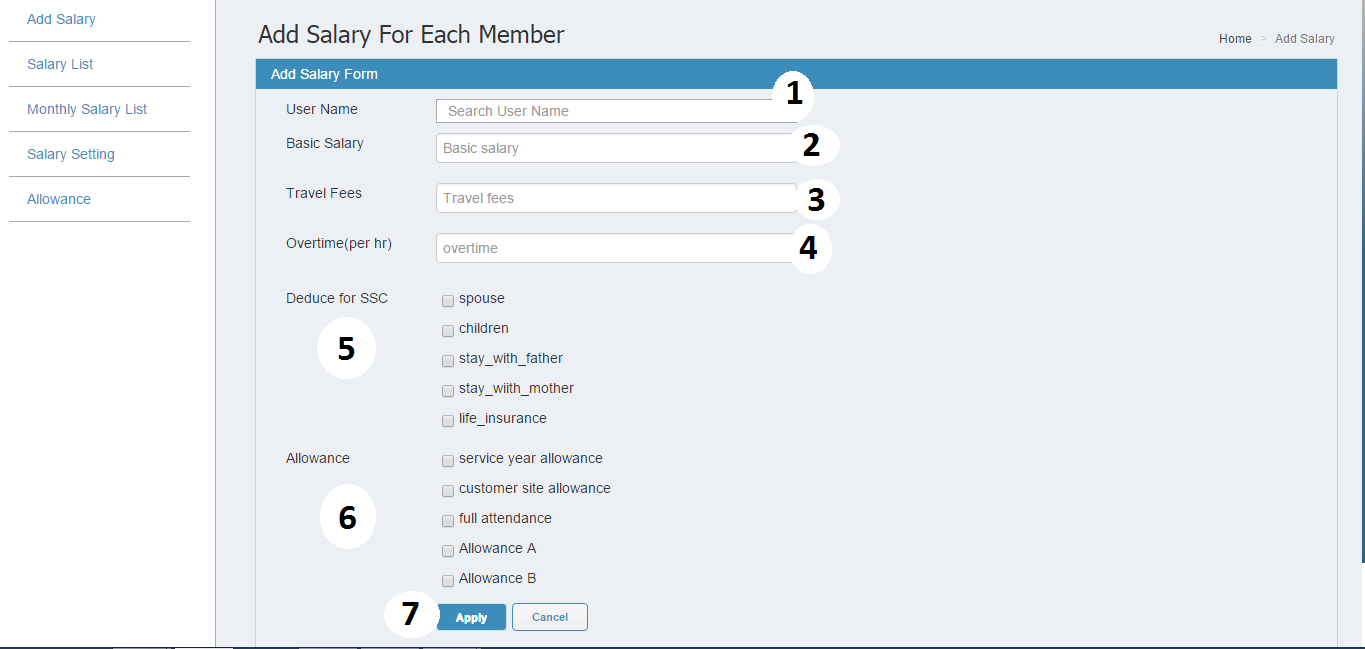
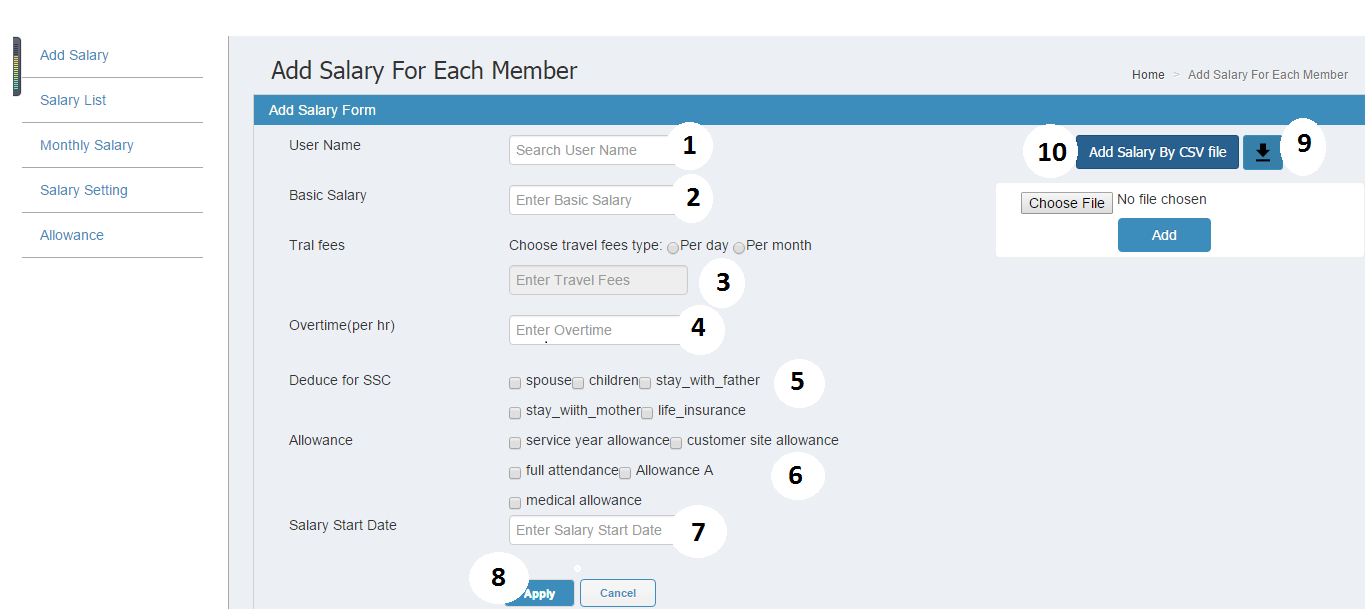
help

diff --git a/apps/help/messages/my.php b/apps/help/messages/my.php
@@ -84,14 +84,14 @@ $messages = array(
     /**
      * Monthly Attenance Chart
      */
-    "Admin can show"=>"Admin can show who attendance , leave and no leave of all member.Monthly Attendance Chart show with green,yellow and red colors.",
-    "Colors"=>"Colors",
-    "Green"=>"Green",
-    "att_person"=>"Attendance Person",
-    "Yellow"=>"Yellow",
-    "absent_leave_person"=>"Absent Person(Apply Leave)",
-    "Red"=>"Red",
-    "absent_noleave_person"=>"Absent Person(No Apply Leave)",
+    "Admin can show"=>"ဒီလအတြင္း ရုံးတက္မွန္ေသာသူ ၊ ခြင့္တင္ျပီးရုံးပ်က္ေသာသူ မ်ားႏွင့္ ခြင့္မတင္ပဲရုံးပ်က္ေသာသူမ်ားစားရင္းမ်ားကို အေရာင္မ်ားႏွင့္ ခြဲျခားေဖာ္ျပထားပါသည္။",
+    "Colors"=>"အေရာင္မ်ားႏွင့္ ေဖာ္ျပထားသည္",
+    "Green"=>"",
+    "att_person"=>"ဒီေန႕တက္ေရာက္ေသာသူမ်ားကို အစိမ္းေရာင္ႏွင့္ ေဖာ္ျပသည္။",
+    "Yellow"=>"",
+    "absent_leave_person"=>"ခြင့္တင္ျပီးရုံးပ်က္ေသာသူမ်ားကို အ၀ါေရာင္ႏွင့္ ေဖာ္ျပသည္။",
+    "Red"=>"",
+    "absent_noleave_person"=>"ခြင့္မတင္ပဲရုံးပ်က္ေသာသူမ်ားကို အနီေရာင္ႏွင့္ ေဖာ္ျပသည္။",
     
     /**
      * Manage User
@@ -169,7 +169,11 @@ $messages = array(
     "Enter users basic salary."=>"ထိုအသံုးျပဳသူအတြက္အေျခခံလစာကိုရိုက္ထည့္ပါ။",
     "Enter users Travel Fees."=>"ထိုအသံုးျပဳသူအတြက္ခရီးစရိတ္ကိုရိုက္ထည့္ပါ။",
     "Enter users Overtime(per hr)."=>"ထိုအသံုးျပဳသူ၏အခ်ိန္ပိုလုပ္အားခ(တစ္နာရီလုပ္အားခ)ကိုရိုက္ထည့္ပါ။",
-    "Deduce for SSC"=>"လူမႈဖူလံုေရးခံစားခြင့္ပမာဏ",
+    "Deduce for SSC"=>"လူမႈဖူလံုေရးခံစားခြင့္ပမာဏ",    
+    "sal_start_date"=>"လစာေပးမည့္ရက္ကိုေရြးေပးပါ",
+    "Salary_apply"=>"အထက္ပါအခ်က္အလက္မ်ားကိုၿဖည့္ျပီး Apply Button ကိုနိပ္ေပးပါရန္",
+    "download_csv"=>"CSV Files ကို Download ယူရန္။download လုပ္ယူၿပီးတစ္ေၿကာင္းထဲေပၚေနပါကExcel ကိုအရင္ဖြင့္ပါ။ၿပီးလွ်င္Data tab ထဲက'Form Text' ကိုေရြးပါ။ၿပီးလွ်င္downlaod fileကိုေရြးေပးပါ။ၿပီးလွ်င္'Next'ကိုေရြးၿပီး  Delimeters ထဲကေအာက္ကပံုနဲ႕အဆင္ေၿပတဲ့ဟာကိုေရြးေပးလိုက္ပါ။",
+    "apply_with_csv"=>"CSV Files ႏွင့္ လစာေပးရန္",
     
     /**
      * Salary Lists

diff --git a/apps/help/messages/en.php b/apps/help/messages/en.php
@@ -166,11 +166,20 @@ $messages = array(
     "Search User Name"=>"Search User Name",
     "Enter the username"=>"Enter the username which you want to search.",
     "Enter users basic salary."=>"Enter users basic salary.",
-    "Enter users Travel Fees."=>"Enter users Travel Fees.",
+    "Enter users Travel Fees."=>"Can you Choose Travel Fees two type(Per Day and Per Month).Enter Travel Fees.",
     "Enter users Overtime(per hr)."=>"Enter users Overtime(per hr).",
     "Deduce for SSC"=>"Deduce for SSC",
     "You must checked Deduce for SSC."=>"You must checked Deduce for SSC.",
     "You must checked Allowance."=>"You must checked Allowance.",
+    "sal_start_date"=>"Choose Salary Start Date",
+    "Salary_apply"=>"Submit your Salary apply form.",
+    "download_csv"=>"Can you Download(CSV Files) and you can insert users salary details.
+After downloaded,we would like to
+1. Open Excel
+2. Go to 'Data' tab
+3. Select 'From Text' (third option from left) and select the .CSV file you want to import.
+4. Click 'Next' on the pop-up window.You should select your appropriate delimeters seeing into columns below already!",
+    "apply_with_csv"=>"Can you Add Salary By CSV files",
     
     /**
      * Salary Lists
@@ -239,4 +248,6 @@ $messages = array(
     "SSB and Tax Document Printing"=>"SSB and Tax Document Printing",
     "Print"=>"Print",
     "Print SSB & Tax"=>"Print SSB & Tax Document details table.",
+    
+    "Change_Language"=>"Change Language",
 );

diff --git a/apps/salary/controllers/IndexController.php b/apps/salary/controllers/IndexController.php
@@ -64,10 +64,10 @@ class IndexController extends ControllerBase {
 //        var_dump( $this->act_name);
 //        
 //        exit();
-        
-       if ($this->moduleIdCall == 1)
-       {
-            
+//        
+//       if ($this->moduleIdCall == 1)
+//       {
+//            
             
         $this->assets->addJs('apps/salary/js/salary.js');
         $Salarydetail = new SalaryDetail();
@@ -81,10 +81,10 @@ class IndexController extends ControllerBase {
             $this->response->redirect('core/index');
         }
           
-         }
-       else {
-            $this->response->redirect('core/index');
-       }
+//         }
+//       else {
+//            $this->response->redirect('core/index');
+//       }
        
     }
 
@@ -94,8 +94,7 @@ class IndexController extends ControllerBase {
      */
     public function show_salarylistAction() {
       
-       if ($this->moduleIdCall == 1)
-       {
+      
             
         $this->assets->addJs('apps/salary/js/salary.js');
         $this->assets->addJs('apps/salary/js/index_show_salarylist.js');
@@ -114,10 +113,7 @@ class IndexController extends ControllerBase {
         $this->view->setVar("getsalarylists", $getsalarylist);
         $this->view->setVar("allowancenames", $allowancename);
         $this->view->module_name = $this->router->getModuleName();
-        }
-       else {
-            $this->response->redirect('core/index');
-       }
+      
        
     }
 

diff --git a/apps/help/messages/ja.php b/apps/help/messages/ja.php
@@ -179,7 +179,10 @@ $messages = array(
     "You must checked Deduce for SSC."=>"該当するSSCにチェックを入れてください。",
     "You must checked Allowance."=>"該当する手当にチェックを入れてください。",
     "Salary_submit"=>"登録ボタンをクリックで登録完了します。",
-    "Salary_button"=>"登録",
+    "sal_start_date"=>"Choose Salary Start Date",
+    "Salary_apply"=>"登録",
+    "download_csv"=>"Can you Download(CSV Files) and you can insert users salary details.",
+    "apply_with_csv"=>"Can you Add Salary By CSV files",
     
     /**
      * Salary Lists
